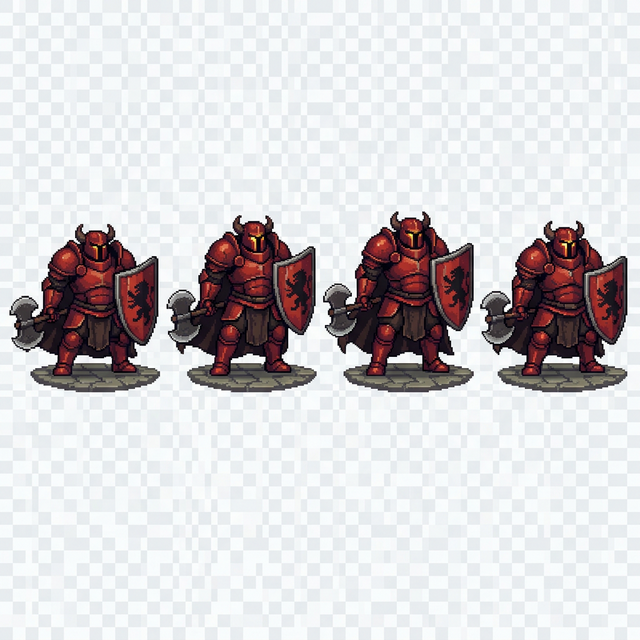
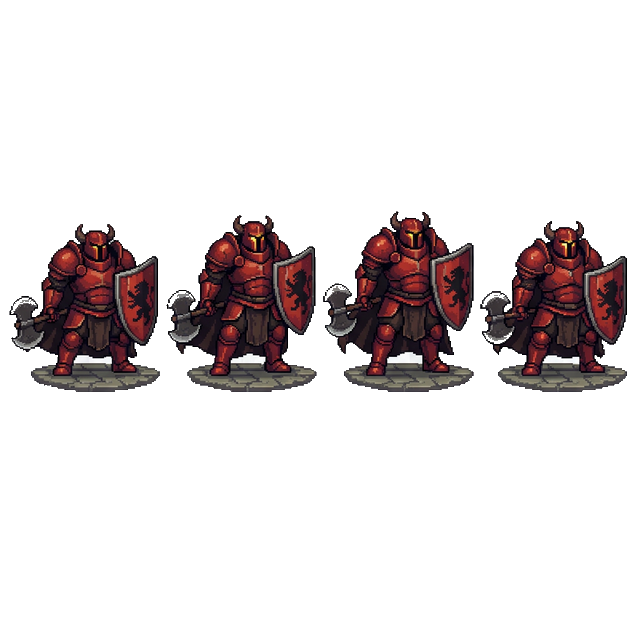
iamdamdad

diff --git a/js/game_v2.js b/js/game_v2.js
@@ -200,6 +200,10 @@ const enemy = new Fighter({
     color: '#ff3366',
     name: 'Titan',
     characterType: 'TITAN',
+    imageSrc: 'assets/titan_idle.png',
+    framesCols: 4,
+    framesRows: 2,
+    framesHold: 15,
     attackBox: { offset: { x: -110, y: 30 }, width: 120, height: 50 }
 });
 